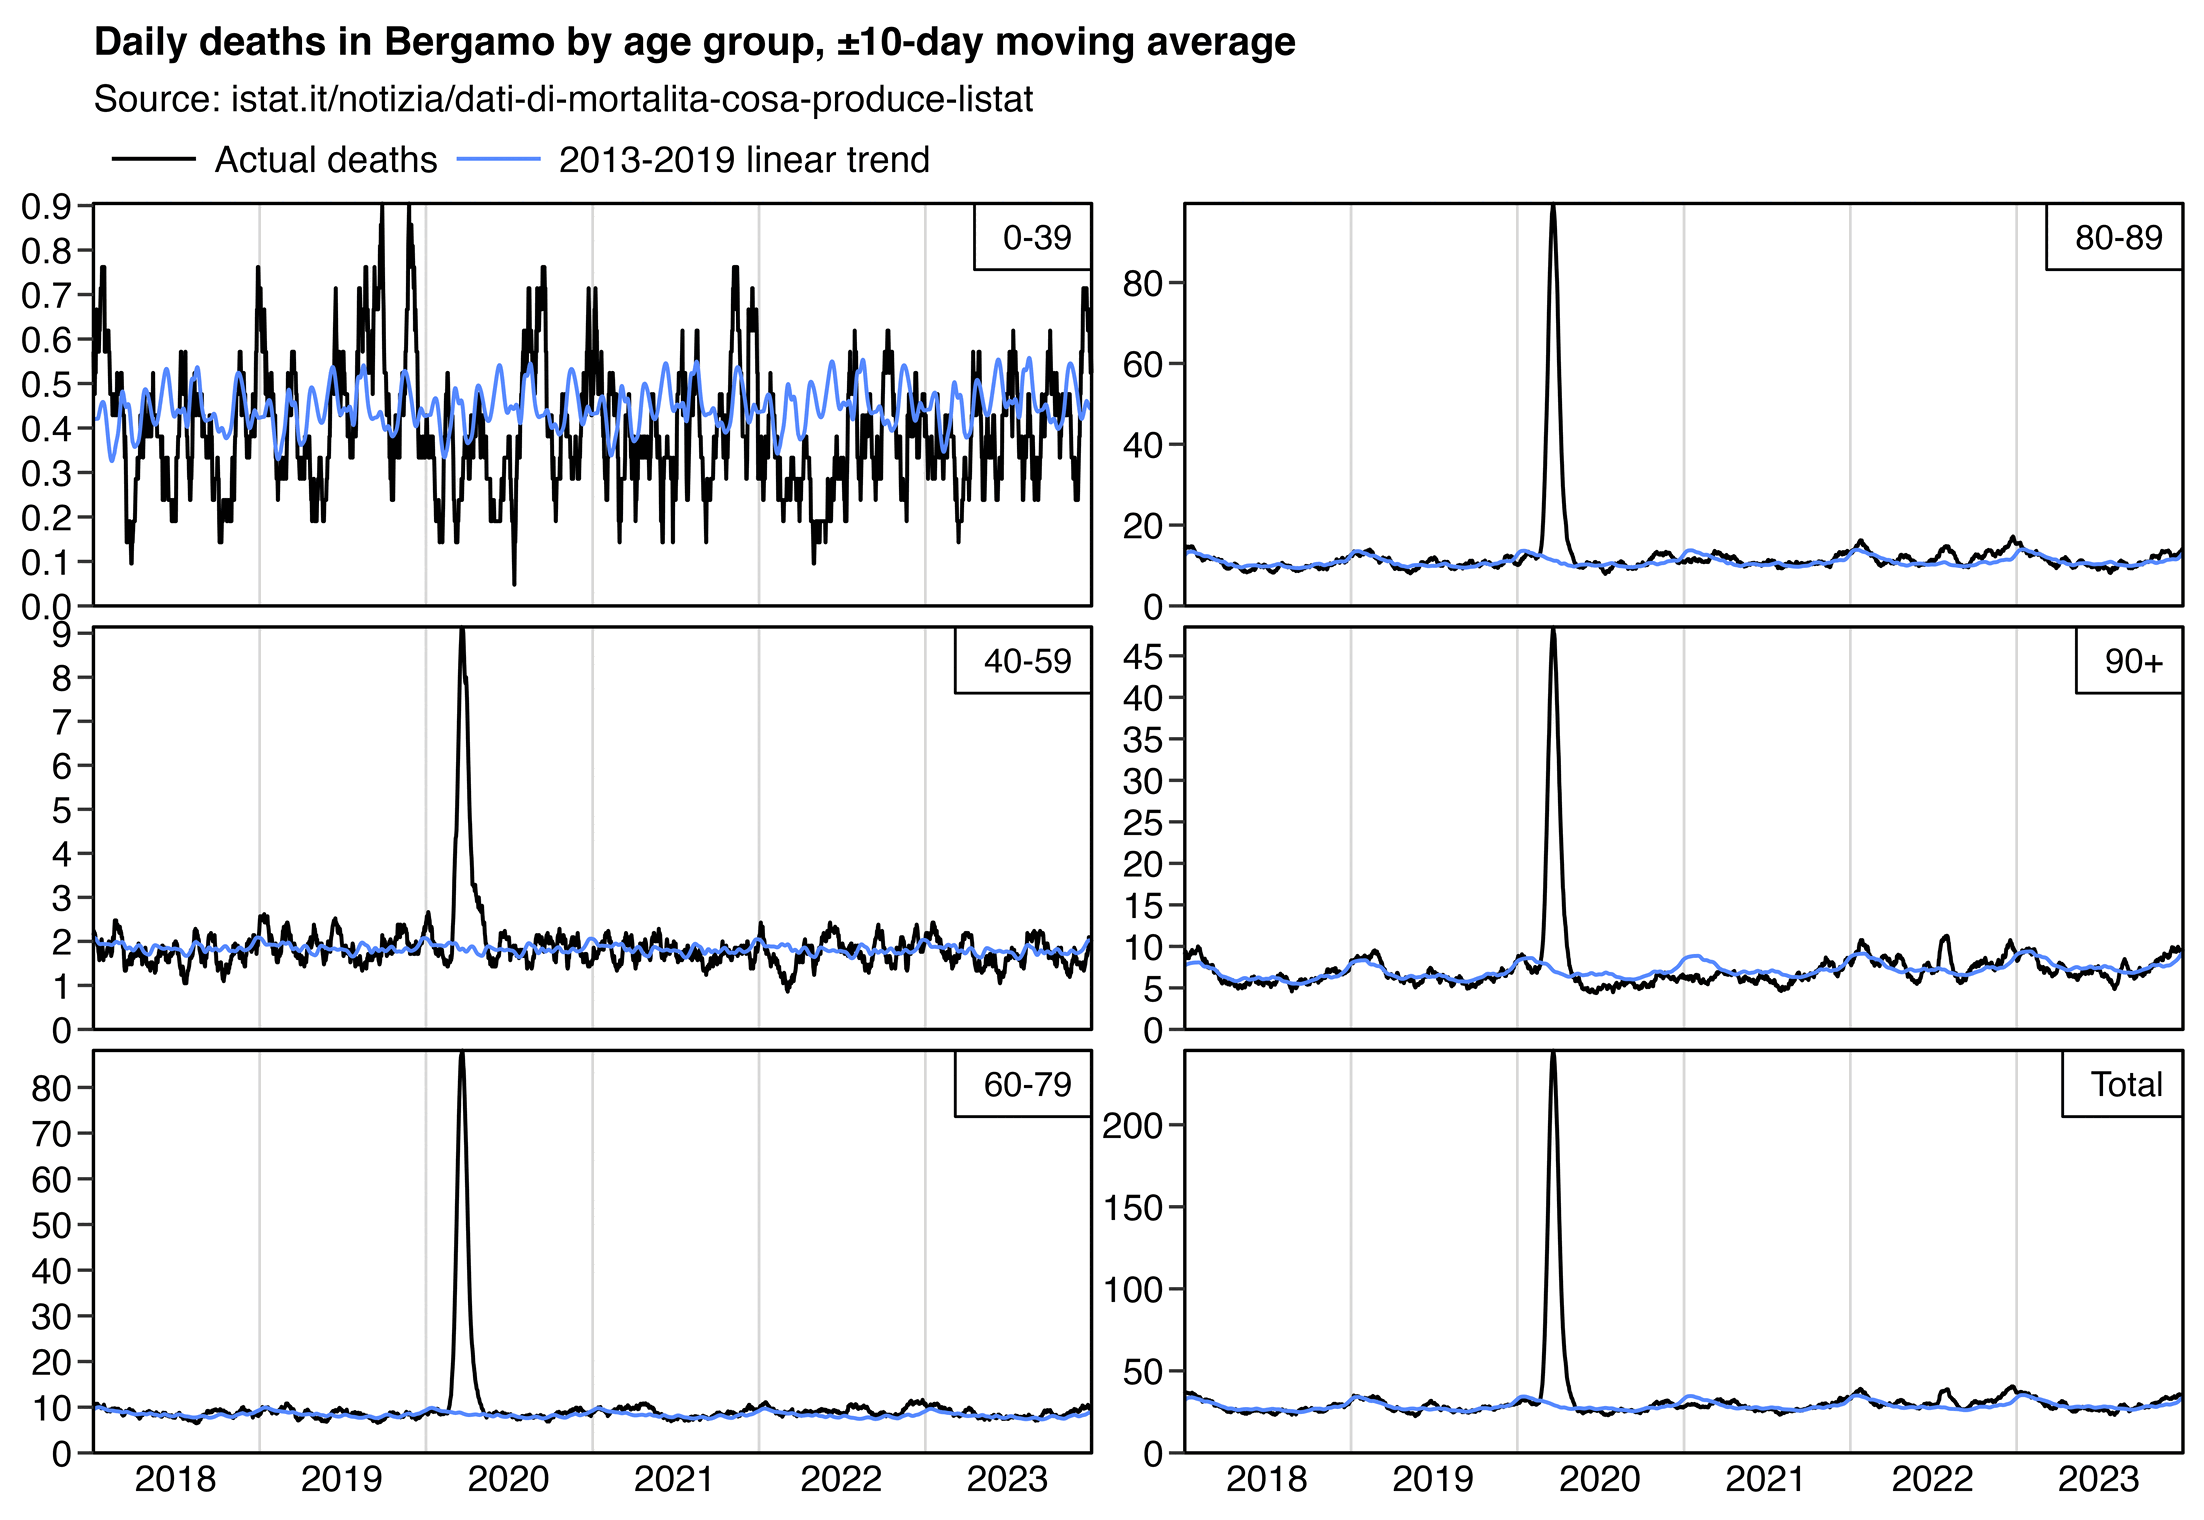
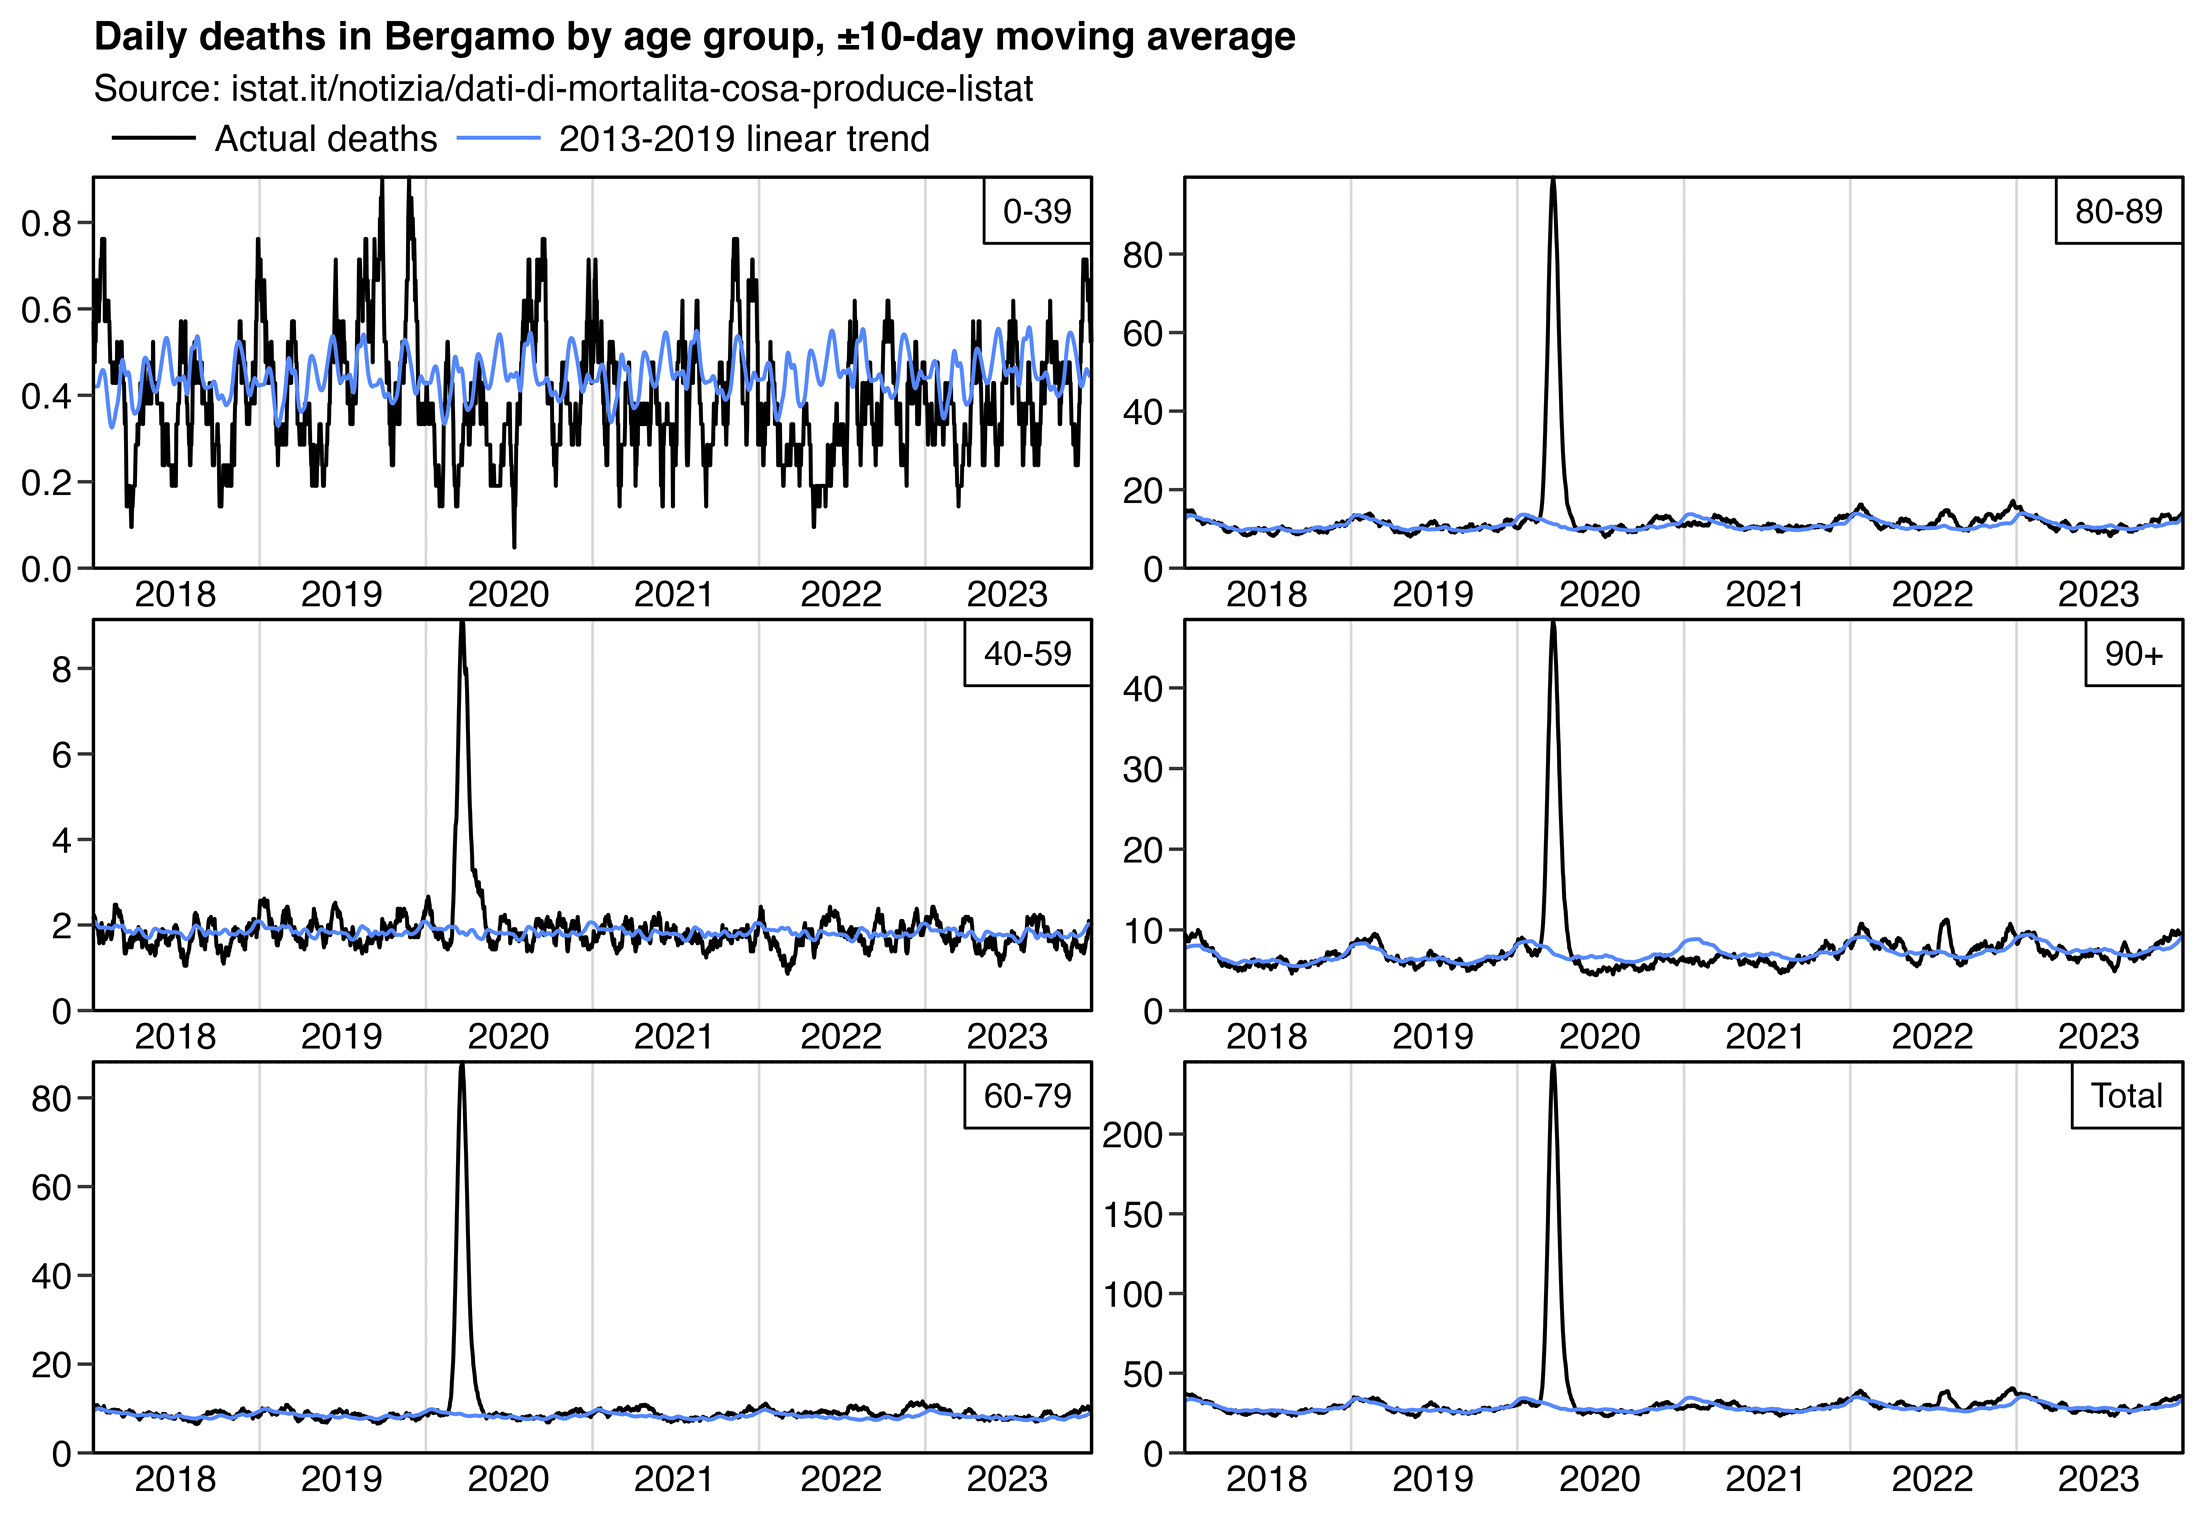
a

diff --git a/nopandemic2.html b/nopandemic2.html
@@ -124,19 +124,19 @@ me[age&gt;=50,weighted.mean(expectancy,excess)] # 12.98951 (life expectancy for 
 <img src="i/np-bergamo-pfe-arrival.png">
 </div>
 <p>However if the mean life expectancy of people who died in excess in NYC in 2020 was about 15 years, many of the people aren't expected to have died even 15 years after 2020, so the PFE adjustment should last much longer than until the end of October 2027.</p>
-<p>Ethical Skeptic came up with the figure of 6.6 years because he said the average age of COVID deaths in Florida was 82, and he got a life expectancy of 6.6 years for age 82 from some unspecified source (even though in the 2019 US life expectancy table the life expectancy for age 82 is about 8.2 years):</p>
+<p>Ethical Skeptic came up with the figure of 6.6 years because he said the average age of COVID deaths in Florida was 82, and he got a life expectancy of 6.6 years for age 82 from some unspecified source (even though in the 2019 US life expectancy table the life expectancy for age 82 is about 8.2 years): [<a href="https://theethicalskeptic.com/2024/11/20/the-state-of-things-pandemic/">https://theethicalskeptic.com/2024/11/20/the-state-of-things-pandemic/</a>]</p>
 <div class="width7">
 <img src="i/np-bergamo-bergamo-pfe-arrival-2.png">
 </div>
 <p>At CDC WONDER the average age of UCD COVID deaths was 73.8 in Florida and about 73.9 in the whole US. And in the 2019 life table the life expectancy for age 74 is about 13.1 years, so it's about twice as high as Ethical Skeptic's figure of 6.6 years. And the average of life expectancies for each age weighted by the number of COVID deaths for the age was about 14.5 years:</p>
 <pre># 2019 life expectancy table for both sexes combined
 download.file(&quot;https://ftp.cdc.gov/pub/Health_Statistics/NCHS/Publications/NVSR/70-19/Table01.xlsx&quot;,&quot;Table01.xlsx&quot;)
-t=na.omit(data.table(readxl::read_excel(&quot;Table01.xlsx&quot;,skip=2)))
+ex=read_excel(&quot;Table01.xlsx&quot;,skip=2,n_max=101)$ex
 
-# UCD COVID deaths by single year of age from CDC WONDER (last value is age 100 or above)
+# UCD COVID deaths by single year of age from CDC WONDER (last value is age 100 and above)
 coviddead=c(363,116,46,41,39,30,38,32,33,47,40,35,41,56,51,97,88,130,162,210,255,288,367,407,499,530,620,707,819,979,1112,1255,1329,1441,1607,1703,1850,2066,2237,2502,2713,2987,3253,3486,3942,4197,4610,4912,5686,6278,7075,7365,8017,8227,8942,9822,11084,11748,12866,14070,15174,16061,17259,18347,19229,20037,20443,20874,22012,22623,23586,24446,25783,27417,27760,26024,26237,27531,28188,27690,27437,27093,27200,27223,26753,26849,26190,25121,24827,24104,22756,21336,19309,17787,15069,12656,10416,8337,6321,4626,8773)
 
-weighted.mean(t$ex,coviddead) # 14.50457</pre>
+weighted.mean(ex,coviddead) # 14.50457</pre>
 <p>The following code shows the average life expectancy by month for deaths with UCD COVID. I now calculated the life expectancy separately for males and females even though it didn't make much difference. CDC WONDER suppresses the number of deaths on rows with less than 10 deaths, so I got the number of COVID deaths from the fixed-width files for the NVSS data instead: <a href=stat.html#Download_fixed_width_and_CSV_files_for_the_NVSS_data_used_at_CDC_WONDER>stat.html#Download_fixed_width_and_CSV_files_for_the_NVSS_data_used_at_CDC_WONDER</a>. The life expectancy was unsurprisingly much higher in 2021 than 2020 (which is because the percentage of COVID deaths in 2021 relative to 2020 is much higher in working-age people than in elderly people, which might be because in 2021 working-age people were less likely to be vaccinated than elderly people):</p>
 <pre>dlf=\(x,y=sub(&quot;.*/&quot;,&quot;&quot;,x),...)for(i in 1:length(x))download.file(x[i],y[i],quiet=T,...)
 dlf(paste0(&quot;https://ftp.cdc.gov/pub/Health_Statistics/NCHS/Publications/NVSR/70-19/Table0&quot;,2:3,&quot;.xlsx&quot;))
@@ -258,6 +258,8 @@ system(paste0(&quot;mar=120;w=`identify -format %w 1.png`;magick 1.png \\( -size
 Show code
 </button><pre>library(data.table);library(ggplot2)
 
+agecut=\(x,y)cut(x,c(y,Inf),paste0(y,c(paste0(&quot;-&quot;,y[-1]-1),&quot;+&quot;)),T,F)
+
 ma=\(x,b=1,f=b){x[]=rowMeans(embed(c(rep(NA,b),x,rep(NA,f)),f+b+1),na.rm=T);x}
 
 seapre=\(x,y,xout=x,spar=.5){class(x)=class(xout)=&quot;Date&quot;
@@ -269,10 +271,10 @@ seapre=\(x,y,xout=x,spar=.5){class(x)=class(xout)=&quot;Date&quot;
   data.frame(x=xout,y=predict(lm,list(x=xout))+daily[substr(xout,6,10)])}
 
 dead=fread(&quot;comuni_giornaliero_31agosto24.csv.gz&quot;,na=&quot;n.d.&quot;)[NOME_PROVINCIA==&quot;Bergamo&quot;]
-de=dead[,.(age=c(0,1,1:20*5)[CL_ETA+1],year=rep(2011:2024,each=.N),month=GE%/%100,day=GE%%100,dead=unlist(.SD[,38:51]))]
+dead=dead[,.(age=c(0,1,1:20*5)[CL_ETA+1],year=rep(2011:2024,each=.N),month=GE%/%100,day=GE%%100,dead=unlist(.SD[,38:51]))]
 ages=c(0,40,60,80,90)
 
-p=na.omit(de[,.(y=sum(dead,na.rm=T)),.(age=agecut(age,ages),x=as.Date(paste(year,month,day,sep=&quot;-&quot;)))])
+p=na.omit(dead[,.(y=sum(dead,na.rm=T)),.(age=agecut(age,ages),x=as.Date(paste(year,month,day,sep=&quot;-&quot;)))])
 p=rbind(p,p[,.(y=sum(y),age=&quot;Total&quot;),x])[year(x)&gt;=2013]
 p=merge(p[year(x)&lt;2020,seapre(x,y,unique(p$x),0),age][,.(x,age,base=y)],p)
 
@@ -281,17 +283,17 @@ p=p[,.(x,y=c(y,base),z=factor(rep(lab,each=.N),lab),age)]
 p[,y:=ma(y,10),.(z,age)]
 
 xstart=as.Date(&quot;2018-1-1&quot;);xend=as.Date(&quot;2024-1-1&quot;)
+p=p[x&gt;=xstart&amp;x&lt;=xend]
 xbreak=seq(xstart,xend,&quot;6 month&quot;);xlab=ifelse(month(xbreak)==7,year(xbreak),&quot;&quot;)
-ybreak=p[,pretty(c(0,y),9)];ystart=0;yend=max(p$y)
 
 ggplot(p,aes(x,y))+
-facet_wrap(~age,scales=&quot;free_y&quot;,dir=&quot;v&quot;,ncol=2)+
+facet_wrap(~age,scales=&quot;free&quot;,dir=&quot;v&quot;,ncol=2)+
 geom_vline(xintercept=seq(xstart,xend,&quot;year&quot;),linewidth=.25,color=&quot;gray85&quot;,lineend=&quot;square&quot;)+
 geom_line(aes(color=z),linewidth=.35)+
 geom_label(data=p[,max(y,na.rm=T),age],aes(label=sprintf(&quot;\n   %s  \n&quot;,age),y=V1),x=xend,lineheight=.5,hjust=1,vjust=1,size=2.3,fill=alpha(&quot;white&quot;,1),label.r=unit(0,&quot;lines&quot;),label.padding=unit(0,&quot;lines&quot;),label.size=.25)+
 labs(title=&quot;Daily deaths in Bergamo by age group, ±10-day moving average&quot;,subtitle=&quot;Source: istat.it/notizia/dati-di-mortalita-cosa-produce-listat&quot;,x=NULL,y=NULL)+
 scale_x_continuous(limits=c(xstart,xend),breaks=xbreak,labels=xlab)+
-scale_y_continuous(breaks=\(x)pretty(x,7))+
+scale_y_continuous(limits=c(0,NA),breaks=\(x)pretty(x,7))+
 scale_color_manual(values=c(&quot;black&quot;,&quot;#58f&quot;))+
 coord_cartesian(clip=&quot;off&quot;,expand=F)+
 theme(axis.text=element_text(size=7,color=&quot;black&quot;),
@@ -315,7 +317,7 @@ theme(axis.text=element_text(size=7,color=&quot;black&quot;),
   panel.background=element_blank(),
   panel.border=element_rect(fill=NA,linewidth=.3),
   panel.spacing.x=unit(2,&quot;pt&quot;),
-  panel.spacing.y=unit(4,&quot;pt&quot;),
+  panel.spacing.y=unit(1,&quot;pt&quot;),
   plot.margin=margin(4,4,4,4),
   plot.subtitle=element_text(size=7,margin=margin(1,,3)),
   plot.title=element_text(size=7.5,face=&quot;bold&quot;,margin=margin(1,,3)),
@@ -324,7 +326,42 @@ theme(axis.text=element_text(size=7,color=&quot;black&quot;),
 ggsave(&quot;1.png&quot;,width=5.8,height=4,dpi=380*4)
 system(&quot;magick 1.png -resize 25% -colors 256 1.png&quot;)</pre>
 </div>
-<p>In the next plot I did a similar simulation for NYC as the earlier simulation for Bergamo. Now the number of deaths in the red scenario where I simulated the COVID event was afterwards only about 1.9% lower than in the black scenario without the COVID event. I don't know why the reduction was so much smaller than in the simulation for Bergamo, even though the total percentage of excess deaths in the first half of 2020 was only slightly higher in Bergamo than NYC:</p>
+<p>Here when I divided the number of excess deaths on weeks 9 to 19 of 2020 with the resident population estimate on January 1st 2020, it was about 7.2% in ages 90+, but it was only about 4.6% in ages 85-89 and about 2.9% in ages 80-84:</p>
+<pre>euro=fread(&quot;estat_demo_r_mweek3.tsv.gz&quot;,na=&quot;:&quot;)
+meta=fread(text=euro[[1]],header=F)
+euro=cbind(meta[,.(age=V4)],euro[,-1])[meta[,V3==&quot;T&quot;&amp;V5==&quot;ITC46&quot;&amp;!V4%in%c(&quot;TOTAL&quot;,&quot;Y_GE85&quot;,&quot;UNK&quot;)]]
+euro[,age:=ifelse(age==&quot;Y_LT5&quot;,0,as.integer(sub(&quot;\\D+(\\d+).*&quot;,&quot;\\1&quot;,age)))]
+euro=euro[,.(age,date=rep(names(.SD)[-1],each=.N),dead=as.integer(sub(&quot; .*&quot;,&quot;&quot;,unlist(.SD[,-1],,F))))]
+euro[,year:=as.integer(substr(date,1,4))][,week:=as.integer(substr(date,7,8))]
+
+a=euro[week%in%9:19,.(dead=sum(dead)),.(age,year)][year&gt;=2013]
+ex=merge(a[year==2020],a[,predict(lm(dead~year),.(year=2020)),age])[,.(age,excess=dead-V1)]
+
+# resident population estimate on January 1st 2020 from dati.istat.it/Index.aspx?QueryId=42869
+pop=data.table(age=0:18*5,pop=c(35349,51917,58050,57058,57116,55881,59096,65303,76378,89485,91969,87414,72505,63069,61768,45496,40271,24711,15290))
+
+merge(ex,pop)[,.(age,poppct=round(excess/pop*100,3))]|&gt;print(r=F)
+# age poppct
+#   0 -0.005
+#   5  0.000
+#  10  0.001
+#  15  0.002
+#  20  0.000
+#  25 -0.002
+#  30  0.002
+#  35 -0.004
+#  40  0.004
+#  45  0.033
+#  50  0.062
+#  55  0.132
+#  60  0.267
+#  65  0.551
+#  70  0.986
+#  75  1.883
+#  80  2.942
+#  85  4.601
+#  90  7.162</pre>
+<p>In the next plot I did a similar simulation for NYC as the earlier simulation for Bergamo. Now the number of deaths in the red scenario where I simulated the COVID event was only about 2.0% lower in 2021-2024 than in the black scenario without the COVID event. I don't know why the reduction was so much smaller than in the simulation for Bergamo, even though the total percentage of excess deaths in the first half of 2020 was only slightly higher in Bergamo than NYC:</p>
 <div class="width6">
 <img src="i/np-bergamo-nycsim.png">
 </div>
@@ -337,11 +374,7 @@ simmonths=12*7
 monthmult=rep(1,simmonths)
 
 nyc=fread(&quot;http://sars2.net/f/nycmonthlydead.csv&quot;)
-fread(&quot;http://sars2.net/f/nycyearlydead.csv&quot;)[,sum(dead),year]
 monthmult[25:30]=merge(nyc[year&lt;2020,mean(dead),month],nyc)[year==2020,dead/V1][1:6]
-
-nypop=fread(&quot;https://www2.census.gov/programs-surveys/popest/datasets/2010-2020/counties/asrh/CC-EST2020-ALLDATA6-36.csv&quot;)
-nypop=nypop[CTYNAME%like%&quot;Bronx|Kings|New York|Richmond|Queens&quot;&amp;YEAR==11&amp;AGEGRP&gt;0,sum(TOT_POP),AGEGRP]$V1[-1]
 
 pop=fread(&quot;http://sars2.net/f/uspopdead.csv&quot;)[year==2018]
 cmr=pop[,dead/pop]/365*12
@@ -372,11 +405,11 @@ sim$base=sim[month&lt;25,predict(lm(dead~month),sim)]
 lab=c(&quot;With high-mortality event&quot;,&quot;No high-mortality event&quot;,&quot;2018-2019 linear trend&quot;)
 p=sim[,.(x=month,y=unlist(.SD[,-1]),z=factor(rep(lab,each=.N),lab))]
 
-sum=sim[month%in%25:30,colSums(.SD)]
-sum2=sim[month&gt;30,colSums(.SD)]
-note=stringr::str_wrap(sprintf(&quot;The scenario with the high-mortality event has %.1f%% more deaths in the first half of 2020 and %.1f%% less deaths between the second half of 2020 and 2024.&quot;,(sum[2]/sum[3]-1)*100,(sum2[3]/sum2[2]-1)*100),32)
+sum=sim[month%in%25:36,colSums(.SD)]
+sum2=sim[month&gt;36,colSums(.SD)]
+note=stringr::str_wrap(sprintf(&quot;The scenario with the high-mortality event has %.1f%% more deaths in 2021 and %.1f%% less deaths in 2021 to 2024.&quot;,(sum[2]/sum[3]-1)*100,(sum2[3]/sum2[2]-1)*100),32)
 
-xstart=1;xend=simmonths+1;xbreak=seq(xstart,xend,6);xlab=c(rbind(&quot;&quot;,2018:2022),&quot;&quot;)
+xstart=1;xend=simmonths+1;xbreak=seq(xstart,xend,6);xlab=c(rbind(&quot;&quot;,2018:2024),&quot;&quot;)
 ybreak=pretty(c(0,p$y),8);ystart=0;yend=max(p$y)+.02
 
 ggplot(p,aes(x+.5,y))+
@@ -385,7 +418,7 @@ geom_hline(yintercept=c(ystart,yend),linewidth=.3,lineend=&quot;square&quot;)+
 geom_vline(xintercept=c(xstart,xend),linewidth=.3,lineend=&quot;square&quot;)+
 geom_line(aes(color=z,linetype=z),linewidth=.35)+
 geom_point(aes(color=z,alpha=z),stroke=0,size=.7)+
-labs(title=&quot;Simulation for deaths per month with high-mortality event&quot;,x=NULL,y=NULL)+
+labs(title=&quot;Simulation for deaths per month in NYC&quot;,x=NULL,y=NULL)+
 annotate(geom=&quot;label&quot;,x=42,y=yend*.48,label=note,hjust=0,label.r=unit(2,&quot;pt&quot;),label.padding=unit(3,&quot;pt&quot;),label.size=.2,size=2.4,lineheight=.9)+
 scale_x_continuous(limits=c(xstart,xend),breaks=xbreak,labels=xlab)+
 scale_y_continuous(limits=c(ystart,yend),breaks=ybreak)+
@@ -437,10 +470,10 @@ euro=fread(&quot;estat_demo_r_mweek3.tsv.gz&quot;,na=&quot;:&quot;)
 meta=fread(text=euro[[1]],header=F)
 euro=cbind(meta[,.(age=V4)],euro[,-1])[meta[,V3==&quot;T&quot;&amp;V5==&quot;ITC46&quot;&amp;!V4%in%c(&quot;TOTAL&quot;,&quot;Y_GE85&quot;,&quot;UNK&quot;)]]
 euro[,age:=ifelse(age==&quot;Y_LT5&quot;,0,as.integer(sub(&quot;\\D+(\\d+).*&quot;,&quot;\\1&quot;,age)))]
-eu=euro[,.(age,date=rep(names(.SD)[-1],each=.N),dead=as.integer(sub(&quot; .*&quot;,&quot;&quot;,unlist(.SD[,-1],,F))))]
-eu[,year:=as.integer(substr(date,1,4))][,week:=as.integer(substr(date,7,8))]
+euro=euro[,.(age,date=rep(names(.SD)[-1],each=.N),dead=as.integer(sub(&quot; .*&quot;,&quot;&quot;,unlist(.SD[,-1],,F))))]
+euro[,year:=as.integer(substr(date,1,4))][,week:=as.integer(substr(date,7,8))]
 
-a=eu[week%in%9:19,.(dead=sum(dead)),.(age,year)][year&gt;=2013]
+a=euro[week%in%9:19,.(dead=sum(dead)),.(age,year)][year&gt;=2013]
 ex=merge(a[year==2020],a[,predict(lm(dead~year),.(year=2020)),age])[,.(age,excess=dead-V1)]
 
 # from dati.istat.it/Index.aspx?QueryId=42869
